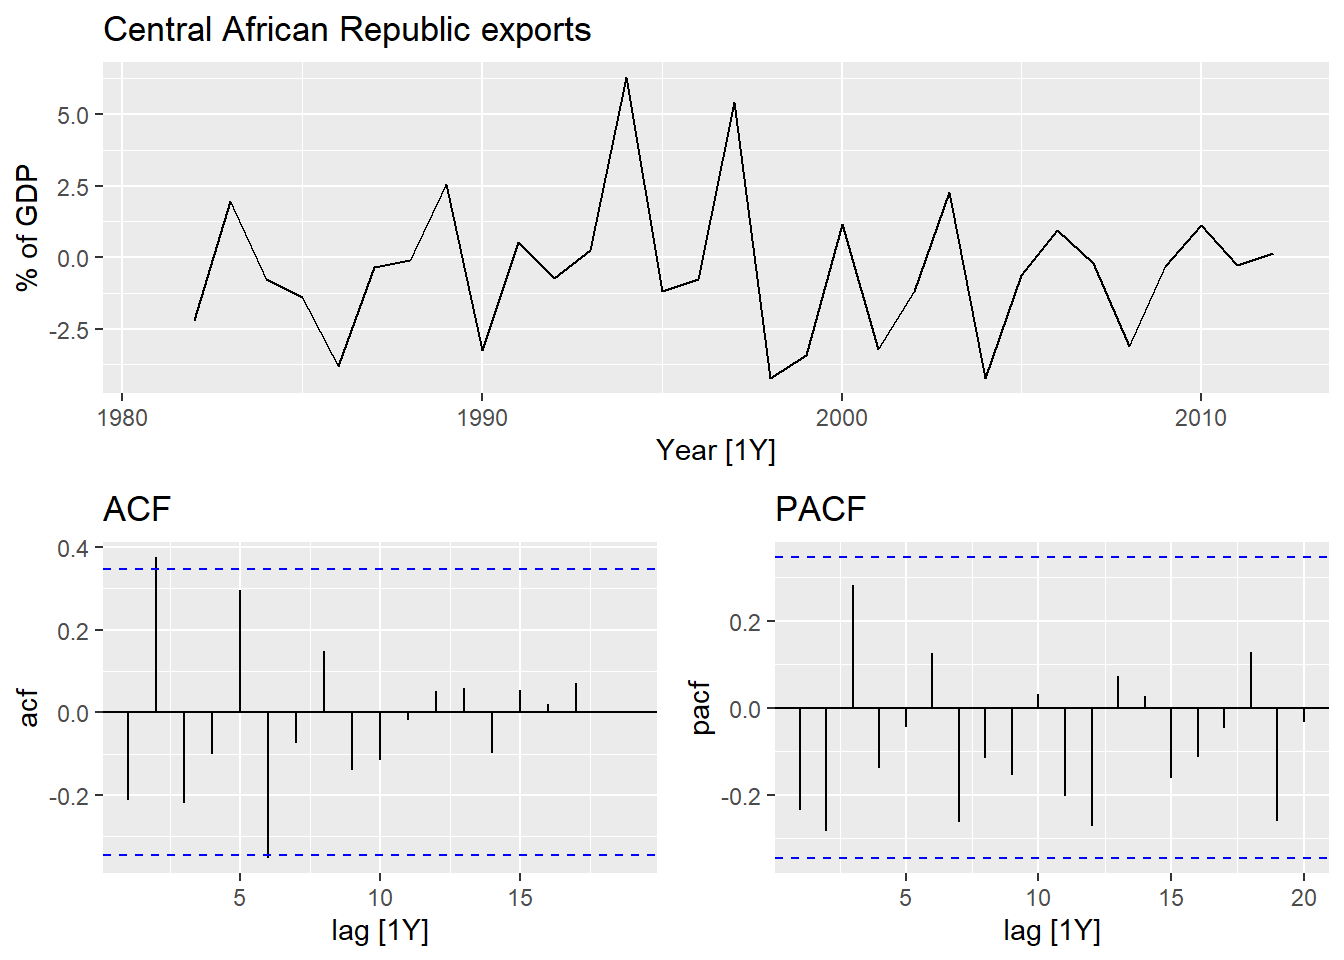
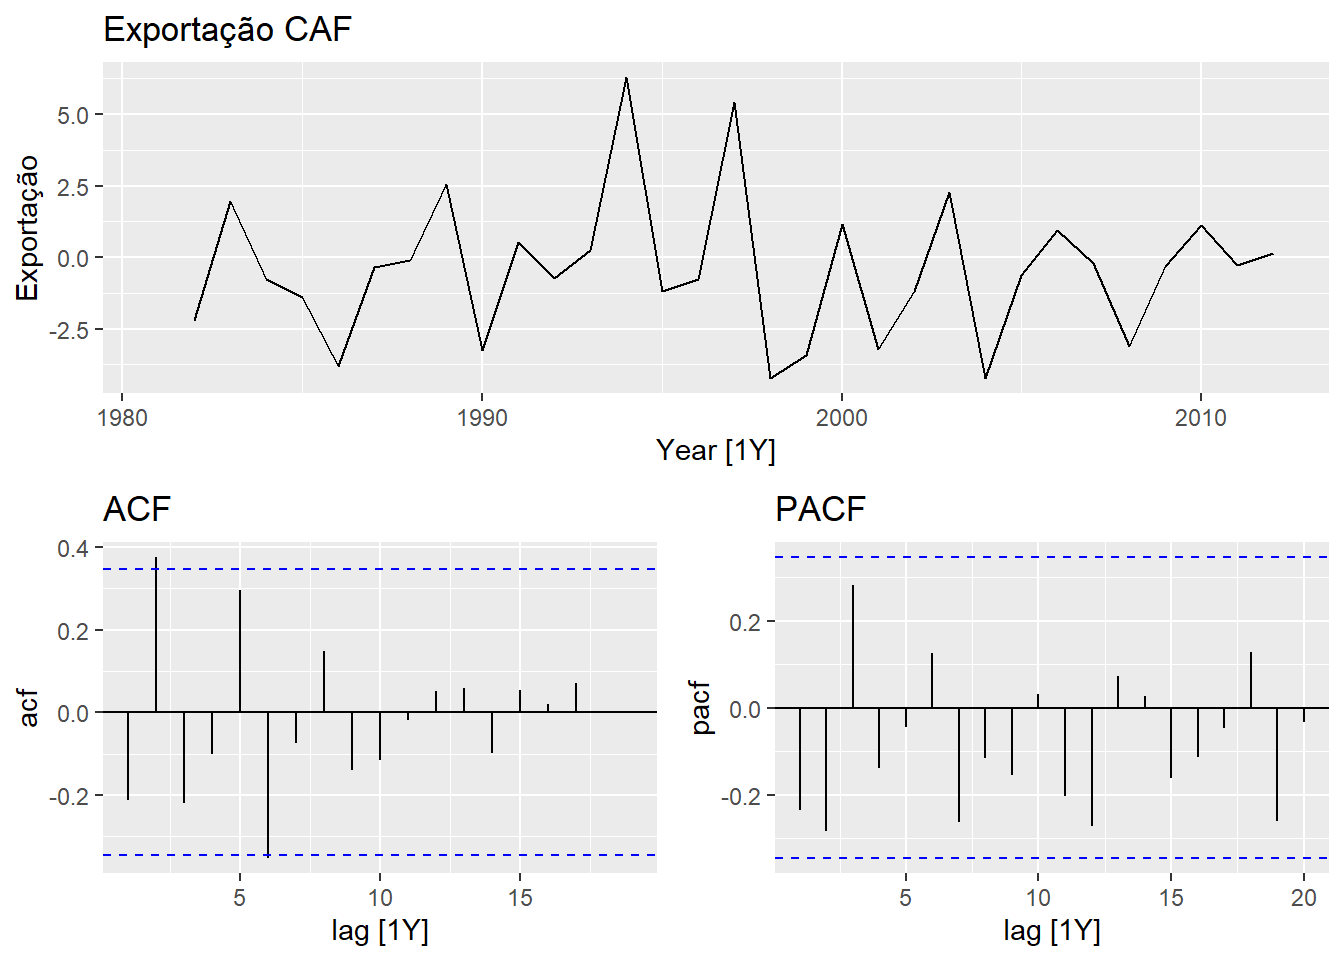
aulas sobre os modelos ARIMA e SARIMA

Changed region(s): [[0.0625, 0.0, 0.4375, 0.0625], [0.0, 0.1562, 0.0312, 0.3125]]

diff --git a/Exemplos no R/Etapa2/Exemplo_ARIMA.html b/Exemplos no R/Etapa2/Exemplo_ARIMA.html
@@ -127,7 +127,7 @@ window.Quarto = {
 
 <section id="aplicação-do-modelo-arima" class="level2">
 <h2 class="anchored" data-anchor-id="aplicação-do-modelo-arima"><span style="font-size: 50px;"> Aplicação do modelo ARIMA </span></h2>
-<p>Descreveremos a modelagem ARIMA usando dados mensais de emprego nos EUA para empregos nas áreas de lazer e hotelaria de janeiro de 2001 a setembro de 2019, como podemos ver a seguir.</p>
+<p>Descreveremos a modelagem ARIMA usando dados anuais sobre a economia global, nesse caso vamos avaliar o comportamento das exportações.</p>
 <div class="cell">
 <div class="sourceCode cell-code" id="cb1"><pre class="sourceCode r code-with-copy"><code class="sourceCode r"><span id="cb1-1"><a href="#cb1-1" aria-hidden="true" tabindex="-1"></a><span class="do">## Bibliotecas de séries temporais</span></span>
 <span id="cb1-2"><a href="#cb1-2" aria-hidden="true" tabindex="-1"></a><span class="fu">library</span>(TSA)</span>
@@ -259,7 +259,7 @@ window.Quarto = {
 5 Central African Re… CAF    2017 1.95e9   4.30   NA     31.8    12.5    4659080</code></pre>
 </div>
 </div>
-<p>Para realizar o ajuste do modelo SARIMA vamos usar a função <code>model</code> da seguinte maneira:</p>
+<p>Para realizar o ajuste do modelo ARIMA vamos usar a função <code>model</code> da seguinte maneira:</p>
 <div class="cell">
 <div class="sourceCode cell-code" id="cb14"><pre class="sourceCode r code-with-copy"><code class="sourceCode r"><span id="cb14-1"><a href="#cb14-1" aria-hidden="true" tabindex="-1"></a><span class="do">#### Comportamento da serie</span></span>
 <span id="cb14-2"><a href="#cb14-2" aria-hidden="true" tabindex="-1"></a>plot_serie <span class="ot">=</span> train <span class="sc">%&gt;%</span></span>
@@ -297,8 +297,8 @@ window.Quarto = {
 <div class="sourceCode cell-code" id="cb17"><pre class="sourceCode r code-with-copy"><code class="sourceCode r"><span id="cb17-1"><a href="#cb17-1" aria-hidden="true" tabindex="-1"></a><span class="do">#### Aplicando o operador diferença </span></span>
 <span id="cb17-2"><a href="#cb17-2" aria-hidden="true" tabindex="-1"></a>plot_serieD <span class="ot">=</span> train <span class="sc">%&gt;%</span></span>
 <span id="cb17-3"><a href="#cb17-3" aria-hidden="true" tabindex="-1"></a>  <span class="fu">autoplot</span>( <span class="fu">difference</span>(Exports) ) <span class="sc">+</span></span>
-<span id="cb17-4"><a href="#cb17-4" aria-hidden="true" tabindex="-1"></a>  <span class="fu">labs</span>(<span class="at">title=</span><span class="st">"Central African Republic exports"</span>,</span>
-<span id="cb17-5"><a href="#cb17-5" aria-hidden="true" tabindex="-1"></a>       <span class="at">y=</span><span class="st">"% of GDP"</span>)</span>
+<span id="cb17-4"><a href="#cb17-4" aria-hidden="true" tabindex="-1"></a>  <span class="fu">labs</span>(<span class="at">title=</span><span class="st">"Exportação CAF"</span>,</span>
+<span id="cb17-5"><a href="#cb17-5" aria-hidden="true" tabindex="-1"></a>       <span class="at">y=</span><span class="st">"Exportação"</span>)</span>
 <span id="cb17-6"><a href="#cb17-6" aria-hidden="true" tabindex="-1"></a></span>
 <span id="cb17-7"><a href="#cb17-7" aria-hidden="true" tabindex="-1"></a><span class="do">### ACF e PACF das series </span></span>
 <span id="cb17-8"><a href="#cb17-8" aria-hidden="true" tabindex="-1"></a>acf_D <span class="ot">=</span> train <span class="sc">%&gt;%</span></span>
@@ -374,7 +374,7 @@ window.Quarto = {
 </figure>
 </div>
 </div>
-<div class="sourceCode cell-code" id="cb26"><pre class="sourceCode r code-with-copy"><code class="sourceCode r"><span id="cb26-1"><a href="#cb26-1" aria-hidden="true" tabindex="-1"></a><span class="co"># GERANDO UMA PREVISAO h = 2 passos </span></span>
+<div class="sourceCode cell-code" id="cb26"><pre class="sourceCode r code-with-copy"><code class="sourceCode r"><span id="cb26-1"><a href="#cb26-1" aria-hidden="true" tabindex="-1"></a><span class="co"># GERANDO UMA PREVISAO h = 5 passos </span></span>
 <span id="cb26-2"><a href="#cb26-2" aria-hidden="true" tabindex="-1"></a>caf_fc <span class="ot">&lt;-</span> caf_fit <span class="sc">%&gt;%</span> <span class="fu">forecast</span>(<span class="at">h =</span> <span class="dv">5</span>)</span>
 <span id="cb26-3"><a href="#cb26-3" aria-hidden="true" tabindex="-1"></a>caf_fc</span></code><button title="Copy to Clipboard" class="code-copy-button"><i class="bi"></i></button></pre></div>
 <div class="cell-output cell-output-stdout">
@@ -421,16 +421,16 @@ window.Quarto = {
 5 rb       Central Africa… Test   1.42  1.59  1.42  10.6  10.6   NaN   NaN 0.120</code></pre>
 </div>
 </div>
-<p>Portanto, o modelo <code>auto</code>, que representa uma ARIMA <span class="math inline">\((2,1,0)(1,1,1)_{12}\)</span> foi o melhor modelo pois apresenta o <u>menor AICc</u>.</p>
+<p>Portanto, o model ARIMA<span class="math inline">\((2,1,2)\)</span> foi o melhor modelo pois apresenta o <u>menor MAPE</u>.</p>
 </section>
 <section id="previsão-no-r" class="level2">
 <h2 class="anchored" data-anchor-id="previsão-no-r"><span style="font-size: 60px;"> Previsão no R </span></h2>
 <div class="cell">
-<div class="sourceCode cell-code" id="cb31"><pre class="sourceCode r code-with-copy"><code class="sourceCode r"><span id="cb31-1"><a href="#cb31-1" aria-hidden="true" tabindex="-1"></a><span class="fu">forecast</span>(caf_fit, <span class="at">h=</span><span class="dv">6</span>) <span class="sc">%&gt;%</span></span>
-<span id="cb31-2"><a href="#cb31-2" aria-hidden="true" tabindex="-1"></a>  <span class="fu">filter</span>(.model<span class="sc">==</span><span class="st">'auto'</span>) <span class="sc">%&gt;%</span></span>
+<div class="sourceCode cell-code" id="cb31"><pre class="sourceCode r code-with-copy"><code class="sourceCode r"><span id="cb31-1"><a href="#cb31-1" aria-hidden="true" tabindex="-1"></a><span class="fu">forecast</span>(caf_fit, <span class="at">h=</span><span class="dv">5</span>) <span class="sc">%&gt;%</span></span>
+<span id="cb31-2"><a href="#cb31-2" aria-hidden="true" tabindex="-1"></a>  <span class="fu">filter</span>(.model<span class="sc">==</span><span class="st">'arima212'</span>) <span class="sc">%&gt;%</span></span>
 <span id="cb31-3"><a href="#cb31-3" aria-hidden="true" tabindex="-1"></a>  <span class="fu">autoplot</span>(serie) <span class="sc">+</span></span>
-<span id="cb31-4"><a href="#cb31-4" aria-hidden="true" tabindex="-1"></a>  <span class="fu">labs</span>(<span class="at">title =</span> <span class="st">"Desemprego: Lazer e hotelaria"</span>,</span>
-<span id="cb31-5"><a href="#cb31-5" aria-hidden="true" tabindex="-1"></a>       <span class="at">y=</span><span class="st">"Número de pessoas (Milhões)"</span>)</span></code><button title="Copy to Clipboard" class="code-copy-button"><i class="bi"></i></button></pre></div>
+<span id="cb31-4"><a href="#cb31-4" aria-hidden="true" tabindex="-1"></a>  <span class="fu">labs</span>(<span class="at">title =</span> <span class="st">"Exportação CAF"</span>,</span>
+<span id="cb31-5"><a href="#cb31-5" aria-hidden="true" tabindex="-1"></a>       <span class="at">y=</span><span class="st">"Exportação"</span>)</span></code><button title="Copy to Clipboard" class="code-copy-button"><i class="bi"></i></button></pre></div>
 <div class="cell-output-display">
 <div>
 <figure class="figure">
